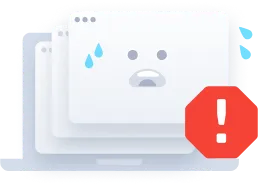
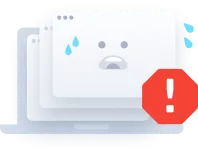
chore(webapp): implement changes in the mobile design

diff --git a/webapp/src/components/InformationCard/styles.js b/webapp/src/components/InformationCard/styles.js
@@ -342,12 +342,19 @@ export default (theme) => ({
       lineHeight: '1.12',
       letterSpacing: '-0.22px',
       textAlign: 'center',
-      color: '#3d3d3dde'
-    }
+      color: '#3d3d3dde',
+    },
   },
   imgError: {
-    width: '260px',
-    height: '160px',
+    [theme.breakpoints.down('lg')]: {
+      width: '200px',
+      height: '120px',
+      marginTop: theme.spacing(8),
+    },
+    [theme.breakpoints.up('lg')]: {
+      width: '260px',
+      height: '160px',
+    },
     objectFit: 'contain',
   },
 })

diff --git a/webapp/src/components/InformationCard/EmptyState.js b/webapp/src/components/InformationCard/EmptyState.js
@@ -8,6 +8,7 @@ const EmptyState = ({ classes, t }) => {
         <img
           className={classes.imgError}
           src="/empty-states/Error.webp"
+          loading="lazy"
           alt=""
         />
         <span>{t('emptyState')}</span>

diff --git a/webapp/src/routes/BlockProducers/styles.js b/webapp/src/routes/BlockProducers/styles.js
@@ -9,7 +9,6 @@ export default (theme) => ({
     display: 'flex',
     [theme.breakpoints.up('sm')]: {
       justifyContent: 'center',
-      flex: 'content',
     },
     [theme.breakpoints.down('sm')]: {
       flex: 'auto',
